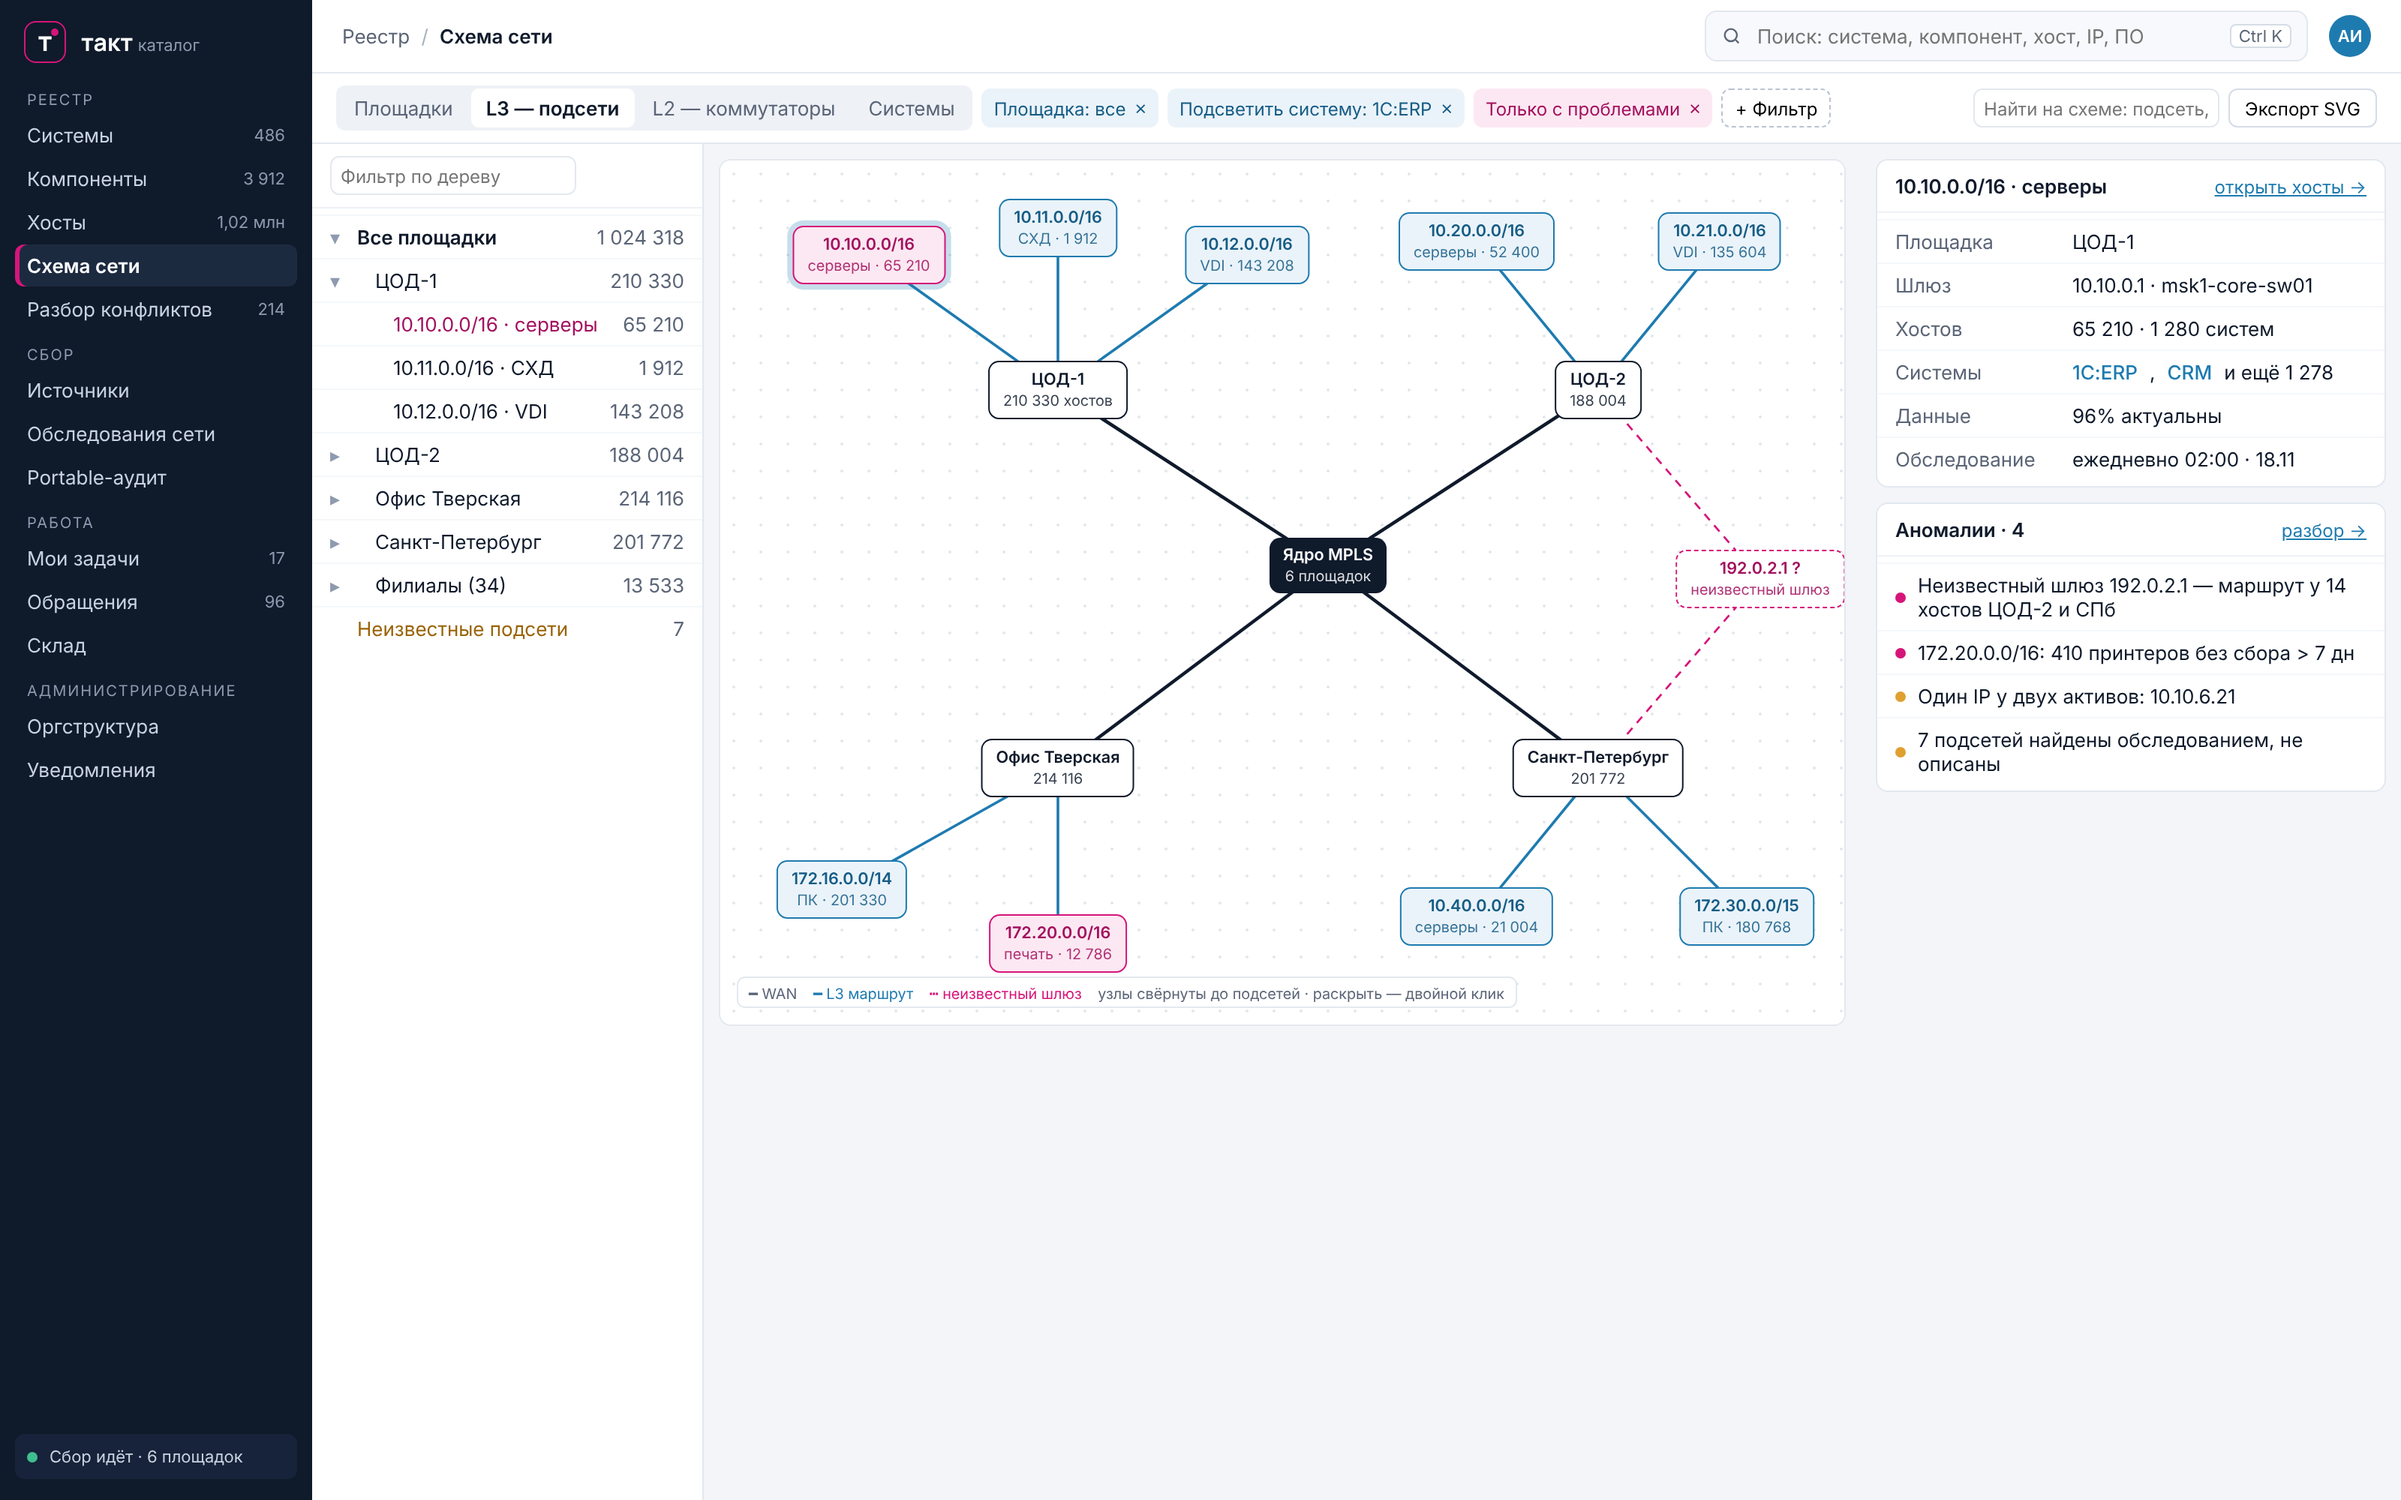
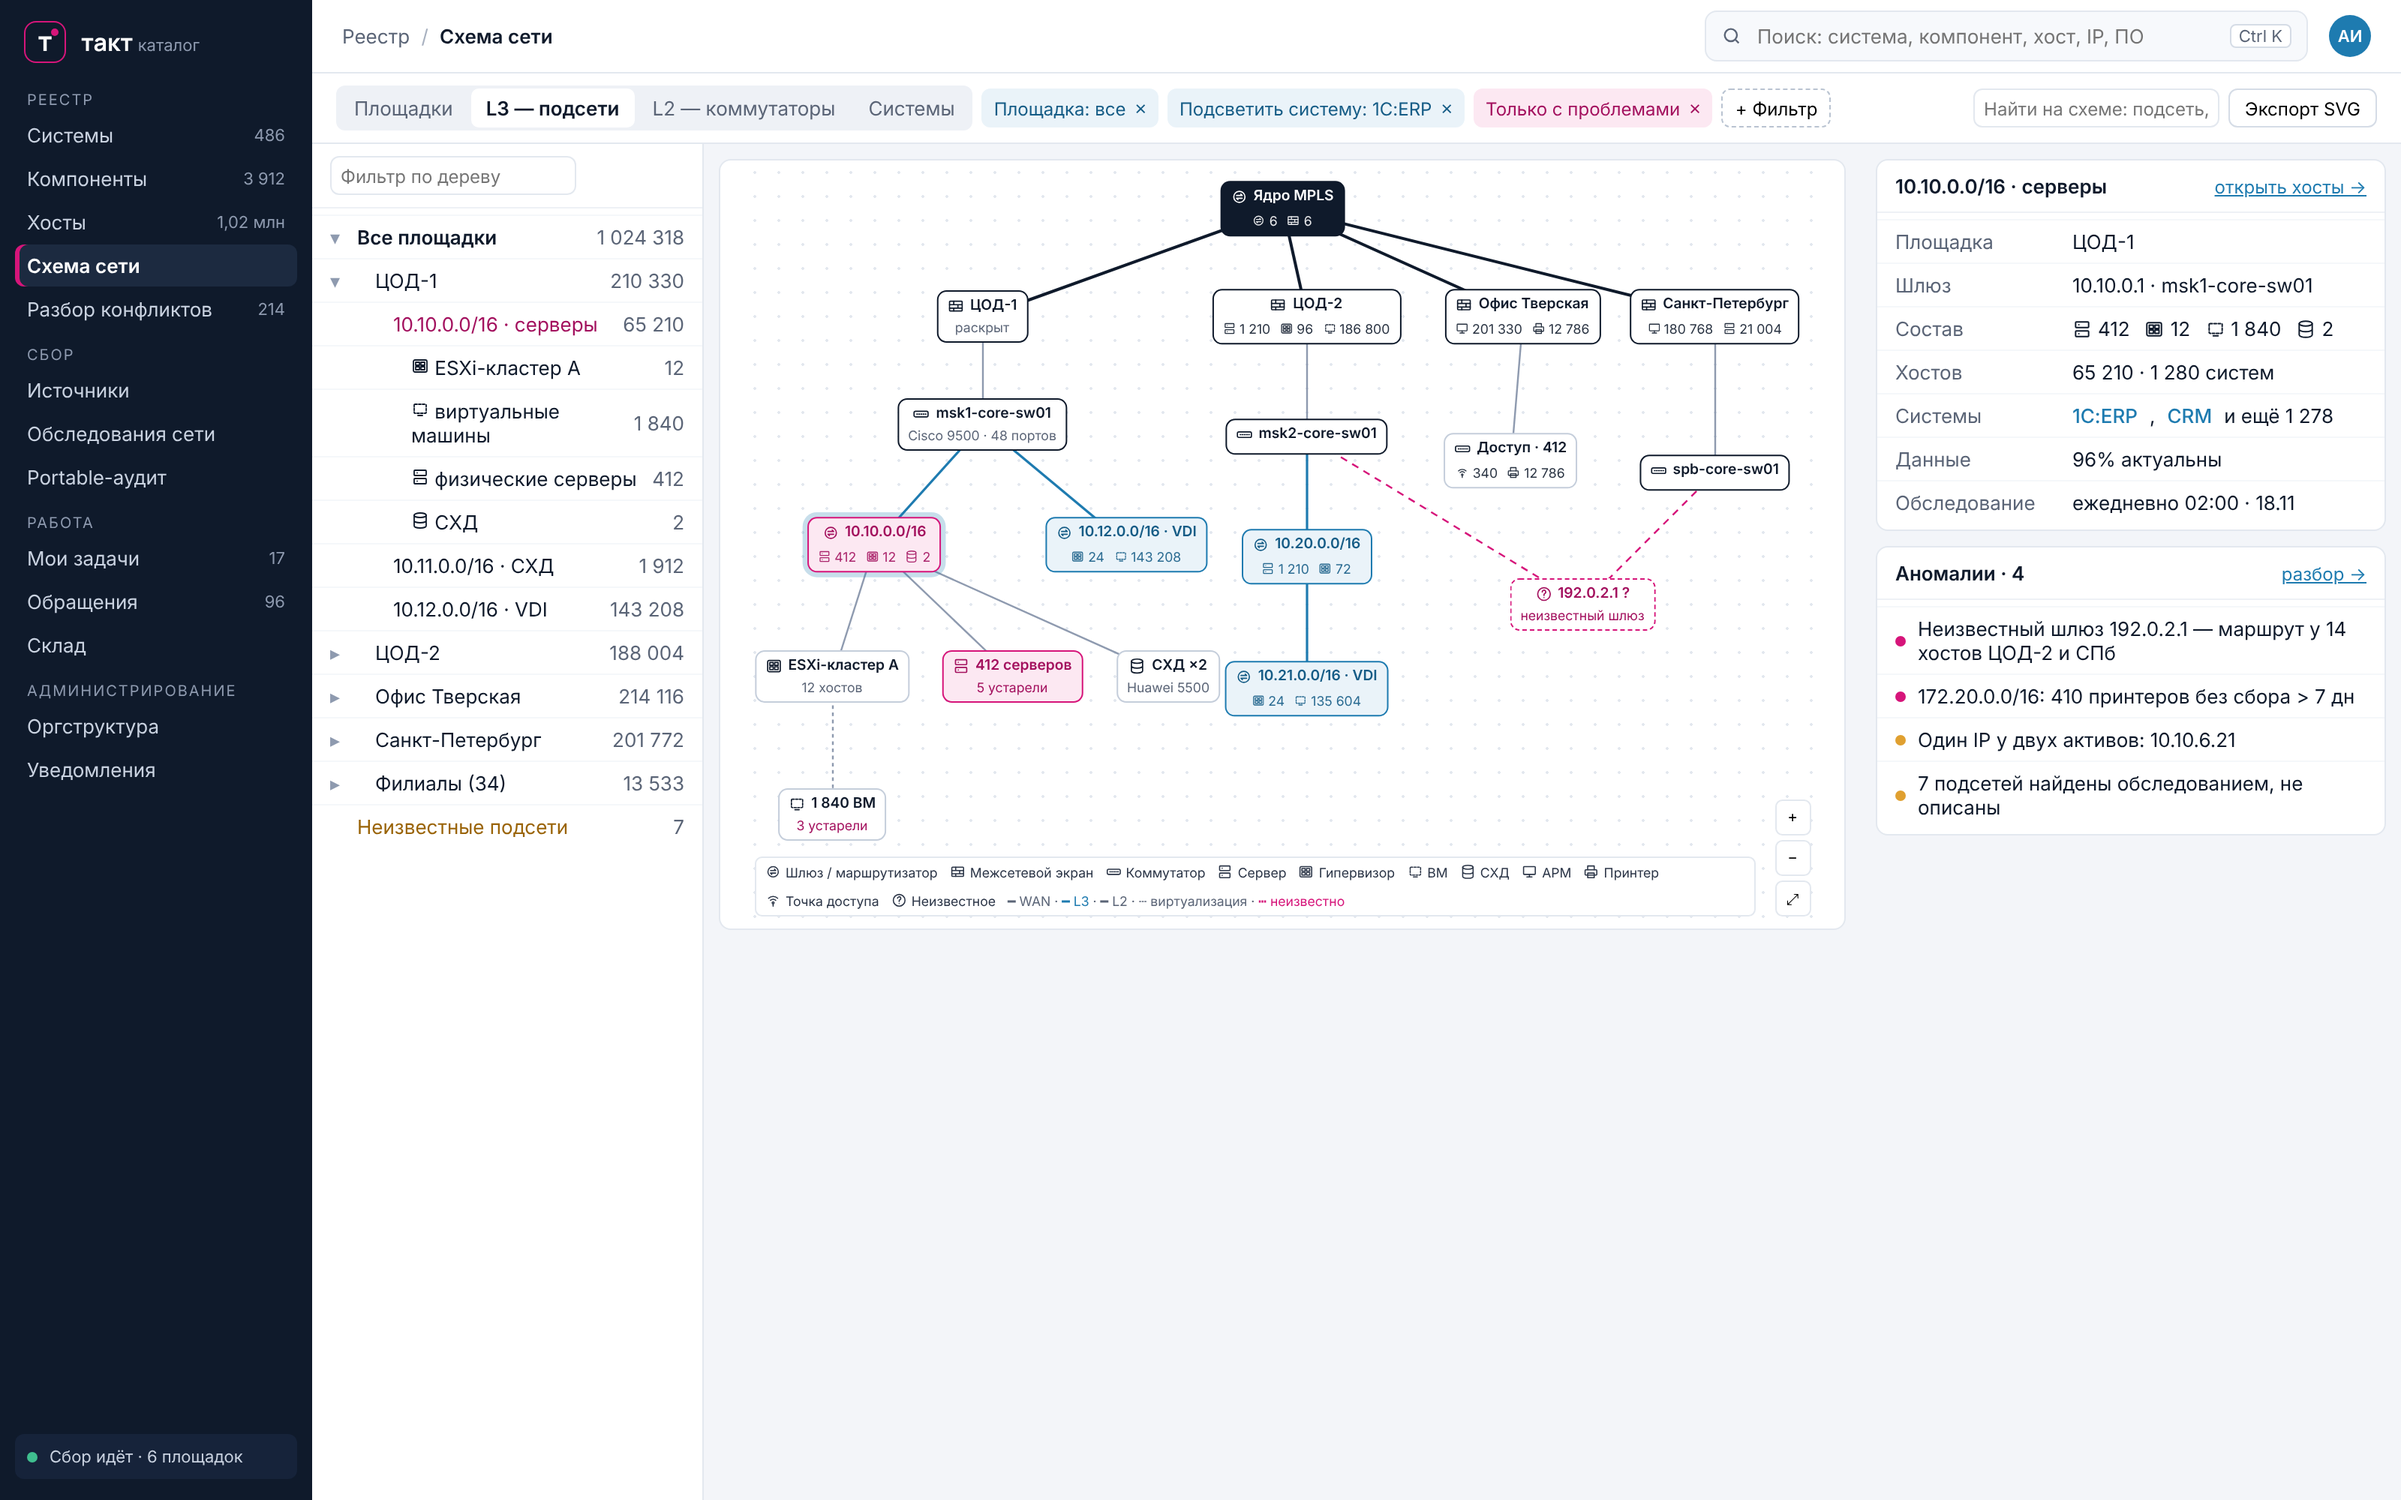
C53: схема сети — значки типов устройств
Claude-Session: https://claude.ai/code/session_019AxTpY1owwEGHpMKcXXt6u

diff --git a/docs/plans/surveyscan-v2/decisions/C53-web-visual-and-brand.md b/docs/plans/surveyscan-v2/decisions/C53-web-visual-and-brand.md
@@ -41,7 +41,7 @@
   (хосты с фильтрами, отклонения от эталона: ОС, версии ПО, антивирус, порты, локальные админы),
   [хост](C53-mockups/9-karta-hosta.png) (почему устарело — причина и действие, 12 разделов, источники, история).
   [Схема сети](C53-mockups/10-shema-seti.png): уровни Площадки / L3 / L2 / Системы, узлы свёрнуты до подсетей с
-  числом хостов (для 1 млн), подсветка системы, фильтры, панель узла и аномалий. [Вход](C53-mockups/11-vhod.png).
+  числом хостов (для 1 млн), подсветка системы, фильтры, панель узла и аномалий; значки типов устройств (шлюз/маршрутизатор, МЭ, коммутатор, сервер, гипервизор, ВМ, СХД, АРМ, принтер, точка доступа, неизвестное) на узлах, в составе свёрнутых узлов и в легенде — нужен тип устройства в модели актива. [Вход](C53-mockups/11-vhod.png).
   Новое в модели: эталон компонента (ожидаемые версии) и объяснение причины устаревания.
 
 ## 1. Сверка презентации с продуктом (на 2026-11-18)
